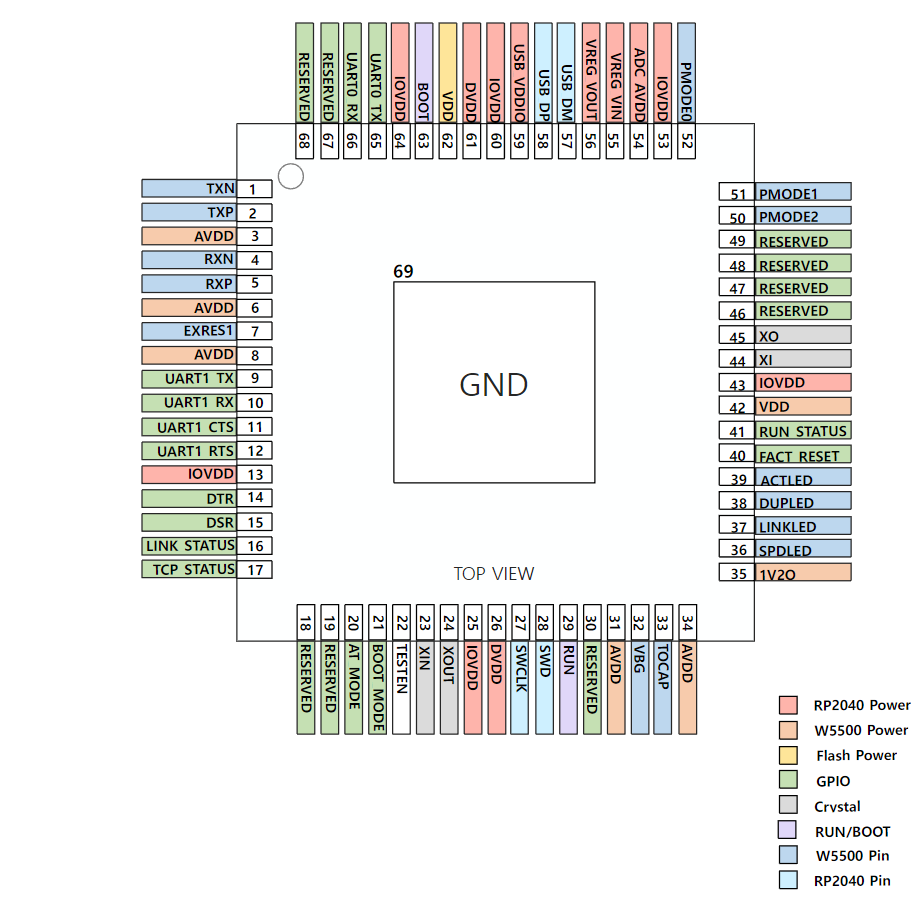
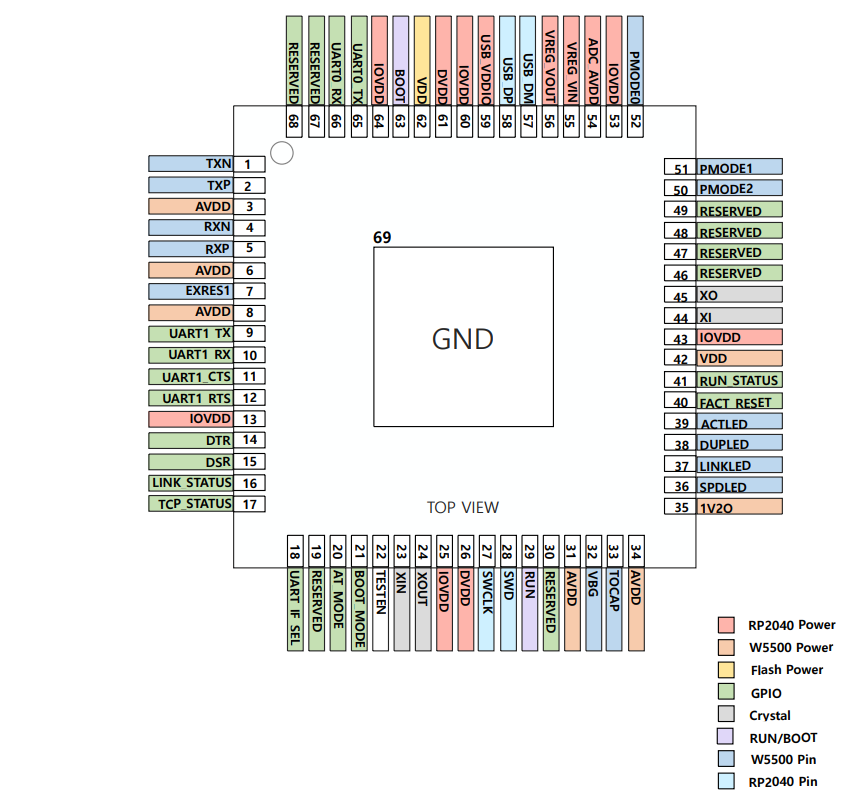
Update W55RP20-S2E doc

diff --git a/docs/Product/ioNIC/W55RP20/W55RP20-S2E/overview-en.md b/docs/Product/ioNIC/W55RP20/W55RP20-S2E/overview-en.md
@@ -64,15 +64,15 @@ The **W55RP20-S2E** is a pre-programmed product with an Serial to Ethernet FW an
 | 9          | UART1_TX    | Serial data TX           |
 | 10         | UART1_RX    | Serial data RX         |
 | 11         | UART1_CTS   | Clear To Send (RX)<br />Associated with the RTS of the connected device and is used to transmit data when the RTS sent from that pin is low.                                                                                                                                            |
-| 12         | UART1_RTS   | Request To Send<br />Connects with the CTS of the connected equipment and sends a low signal when the W55RP20-S2E is in a state where it can receive data.                                                                                                                              |
+| 12         | UART1_RTS   | Request To Send<br />Connects with the CTS of the connected equipment and sends a low signal when the W55RP20-S2E is in a state where it can receive data.<br /><br />When 485/422 selected by UART_IF_SEL pin, this pin act as 485/422 select pin. <br />NC : 485<br />Low : 422<br /> |
 | 13         | IOVDD       | Digital IO Supply<br />Power supply for digital GPIOs, nominal voltage 3.3V                                                                                                                                                                                                             |
 | 14         | DTR         | Data Terminal Ready (TX)<br />Connected to the device's DSR pin to show that it is ready to communicate.                                                                                                                                                                                |
 | 15         | DSR         | Data Set Ready (RX)<br />Connected to the device's DTR pin to indicate that it is ready for communication.                                                                                                                                                                              |
 | 16         | LINK_STATUS | Link Status signal<br />High : Link<br />Low : UnLink       |
 | 17         | TCP_STATUS  | TCP Connection<br />High : Connect<br />Low : Disconnect        |
-| 18         | RESERVED    | RESERVED PIN                                               |
+| 18         | UART_IF_SEL | UART Interface select <br /> High : 485/422<br />Low or NC : TTL/232|
 | 19         | RESERVED    | RESERVED PIN                    |
-| 20         | AT_MODE     | AT Command mode pin<br />High : Gateway Mode (default)<br />Low : AT Command Mode<br />Changes will be reflected after reset                                                                                                                                                                |
+| 20         | HW_TRIG     | AT Command mode pin<br />High : Gateway Mode (default)<br />Low : AT Command Mode<br />Changes will be reflected after reset                                                                                                                                                                |
 | 21         | BOOT_MODE   | Boot Mode pin<br />Low : Enter W55RP20-S2E BOOT mode<br />Changes will be reflected after reset                                                                                                                                                                                           |
 | 22         | TESTEN      | Factory test mode pin<br />Tie to GND.                      |
 | 23         | XIN         | Crystal input/output<br />Connect a crystal to RP2040’s crystal oscillator. XIN can also be used as a single-ended CMOS clock input, with XOUT disconnected. The USB bootloader requires a 12MHz crystal or 12MHz clock input.                                                          |

diff --git a/docs/Product/ioNIC/W55RP20/W55RP20-S2E/command-manual-en.md b/docs/Product/ioNIC/W55RP20/W55RP20-S2E/command-manual-en.md
@@ -58,13 +58,13 @@ You can use either of the two methods below to enter serial command mode.
 
 **1. Enter command mode using hardware trigger pin**
 
-  - Use the AT_MODE pin of the W55RP20-S2E to enter command mode.
+  - Use the HW_TRIG pin of the W55RP20-S2E to enter command mode.
   - Upon turning the power on, check the pin to enter command mode. Use the trigger pin to re-enter the command mode when rebooting.
   - The trigger pin should be pull-up, and operates as low active.
   - This method is used when users wish to change settings while the product operation is initiated.
 
 ```
-  - Set the hardware AT_MODE pin to Low.
+  - Set the hardware HW_TRIG pin to Low.
 
   - Power on the W55RP20-S2E.
     · When operating in serial command mode, users can check the following message via Debug UART port.
